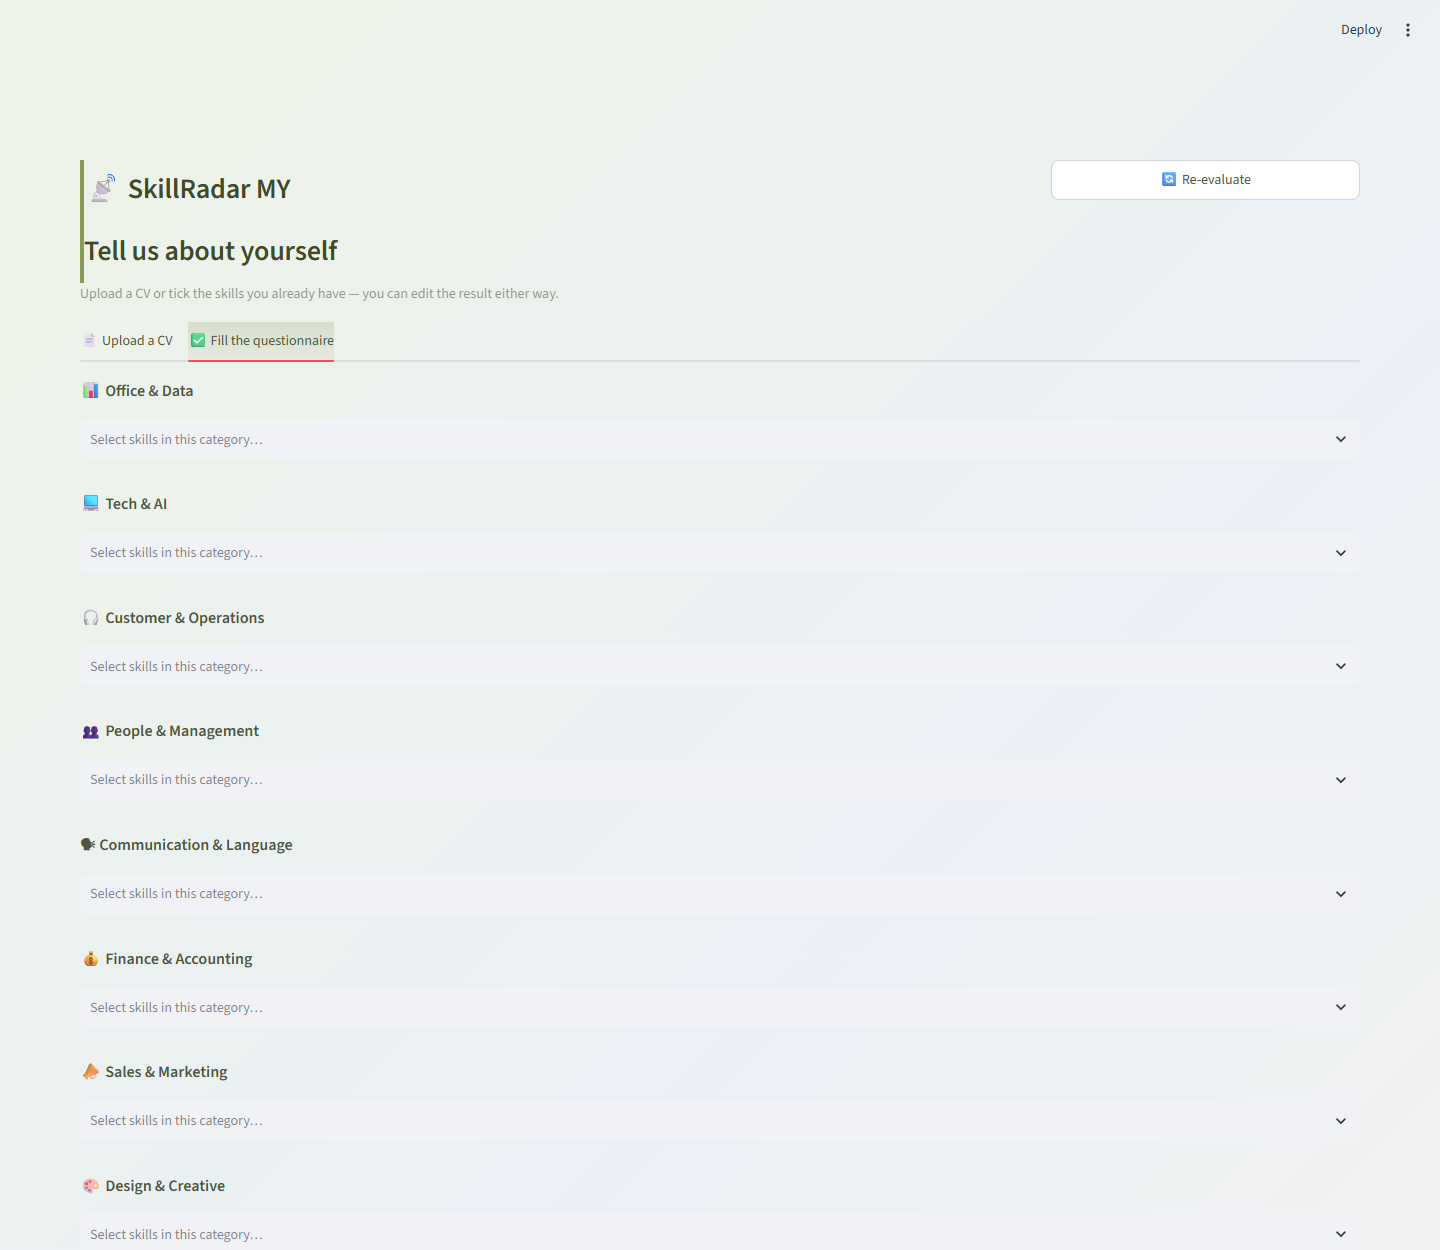
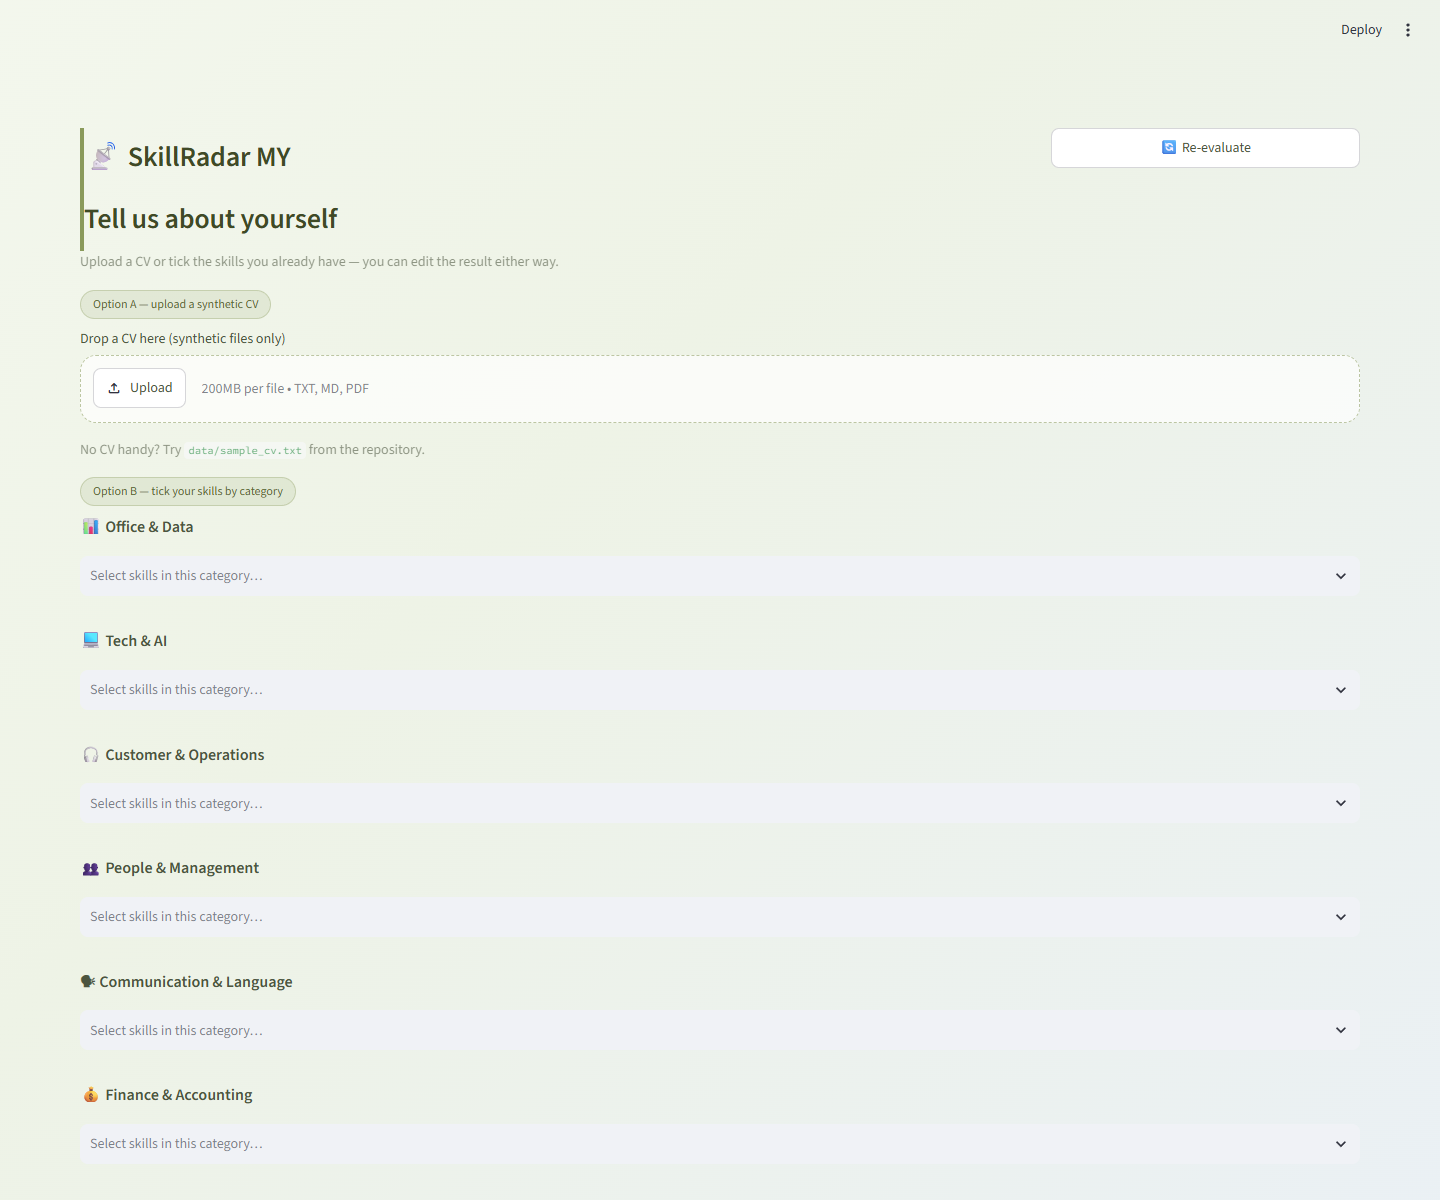
fix: single-page intake (no tabs) and lighter CSS so a repaint cannot drop users back a step

diff --git a/app.py b/app.py
@@ -317,7 +317,7 @@ LANDING_CSS = """
 }
 [data-testid="stHeader"] { background: transparent; }
 
-.sr-orb { position: fixed; border-radius: 50%; filter: blur(40px); pointer-events: none; z-index: 0; }
+.sr-orb { position: fixed; border-radius: 50%; filter: blur(52px); pointer-events: none; z-index: 0; opacity:.75; }
 .sr-o1 { width: 340px; height: 340px; top: -70px; left: -60px;
          background: radial-gradient(circle, rgba(138,154,91,.50), rgba(138,154,91,0) 70%);
          animation: sr-float-a 16s ease-in-out infinite; }
@@ -341,8 +341,7 @@ LANDING_CSS = """
 .sr-sub { color: #5f6b52; font-size: 15.5px; max-width: 720px; margin: 0 auto; line-height: 1.6; }
 
 [data-testid="stVerticalBlockBorderWrapper"] {
-  background: rgba(255,255,255,.62) !important;
-  backdrop-filter: blur(12px);
+  background: rgba(255,255,255,.78) !important;
   border: 1px solid rgba(255,255,255,.9) !important;
   border-radius: 22px !important;
   box-shadow: 0 18px 46px rgba(76,86,52,.14);
@@ -372,7 +371,7 @@ LANDING_CSS = """
 
 .sr-steps { display:flex; gap:14px; justify-content:center; margin: 20px auto 0; max-width: 900px; }
 .sr-step { flex:1; background: rgba(255,255,255,.55); border:1px solid rgba(255,255,255,.85);
-           border-radius:16px; padding:12px 14px; text-align:center; backdrop-filter: blur(8px); }
+           border-radius:16px; padding:12px 14px; text-align:center; }
 .sr-step b { display:block; color:#3f4a26; font-size:13.5px; margin-bottom:3px; }
 .sr-step span { color:#6b7560; font-size:12px; line-height:1.5; }
 .sr-step em { font-style:normal; font-size:17px; }
@@ -403,7 +402,7 @@ APP_CSS = """
   animation: sr-sky 26s ease-in-out infinite;
 }
 [data-testid="stHeader"] { background: transparent; }
-[data-testid="stSidebar"] { background: rgba(255,255,255,.55); backdrop-filter: blur(10px); }
+[data-testid="stSidebar"] { background: rgba(255,255,255,.72); }
 
 h1, h2, h3, h4 { color: #3f4a26 !important; letter-spacing: -.01em; }
 h3 { border-left: 4px solid #8A9A5B; padding-left: 10px; }
@@ -411,8 +410,7 @@ p, li, label, .stMarkdown { color: #4c5540; }
 
 /* glass panels */
 [data-testid="stVerticalBlockBorderWrapper"] {
-  background: rgba(255,255,255,.62) !important;
-  backdrop-filter: blur(12px);
+  background: rgba(255,255,255,.78) !important;
   border: 1px solid rgba(255,255,255,.9) !important;
   border-radius: 20px !important;
   box-shadow: 0 14px 34px rgba(76,86,52,.12);
@@ -707,9 +705,8 @@ def screen_js_intake() -> None:
     st.subheader("Tell us about yourself")
     st.caption("Upload a CV or tick the skills you already have — you can edit the result either way.")
 
-    tab_cv, tab_form = st.tabs(["📄 Upload a CV", "✅ Fill the questionnaire"])
-
-    with tab_cv:
+    st.markdown('<div class="sr-pill">Option A — upload a synthetic CV</div>', unsafe_allow_html=True)
+    if True:
         up = st.file_uploader("Drop a CV here (synthetic files only)", type=["txt", "md", "pdf"])
         if up is not None:
             found = cv_to_skills(up)
@@ -720,7 +717,8 @@ def screen_js_intake() -> None:
                 st.warning("No known skill detected — use the questionnaire tab instead.")
         st.caption("No CV handy? Try `data/sample_cv.txt` from the repository.")
 
-    with tab_form:
+    st.markdown('<div class="sr-pill">Option B — tick your skills by category</div>', unsafe_allow_html=True)
+    if True:
         picked: list[str] = []
         for group, items in TAXONOMY.items():
             st.markdown(f"**{group}**")
